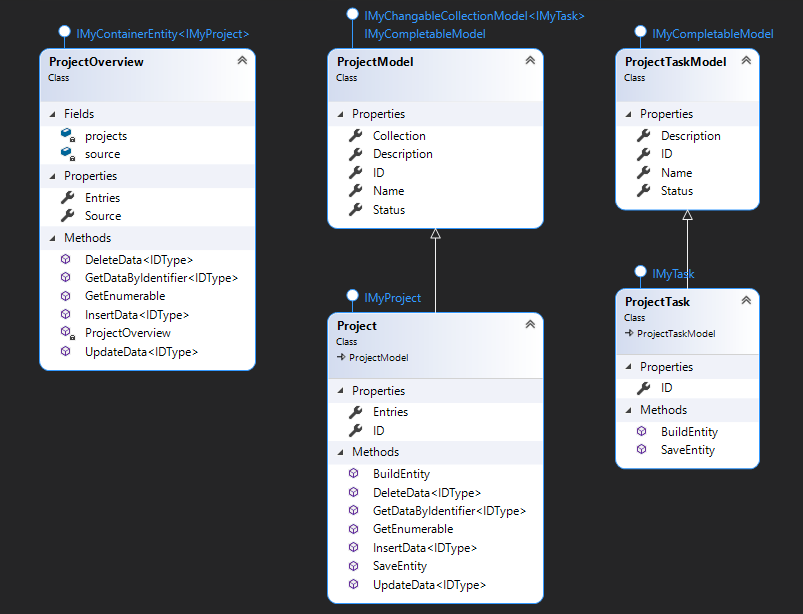
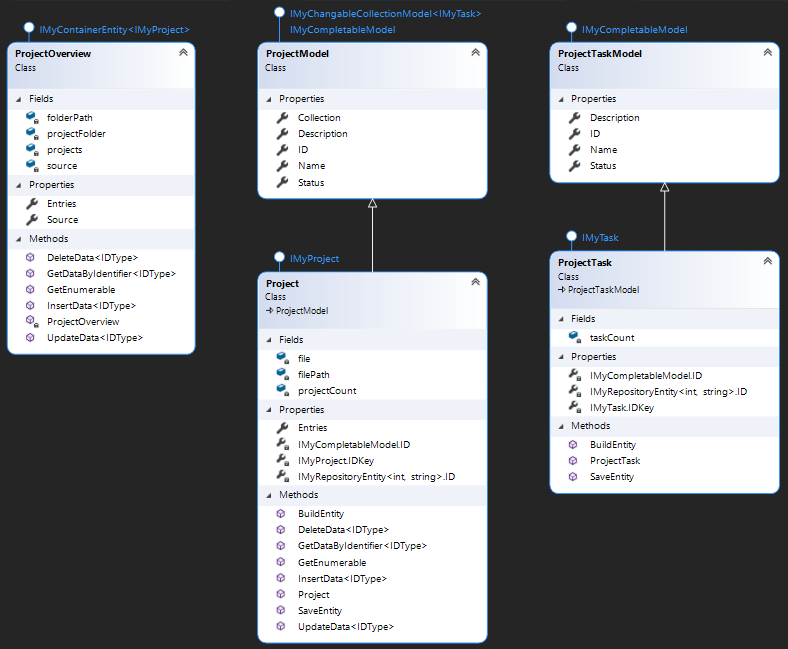
Implemented ProjctOverview + Ability to store and load projects
Changes to Projects
~ Fixed ambiguous call to ID property between IMyCompletableModel and IMyRepositoryEntity In IMyTask

diff --git a/Oiski.School.ToDo_H2_2021/ProjectOverview.cs b/Oiski.School.ToDo_H2_2021/ProjectOverview.cs
@@ -1,19 +1,51 @@
-using Oiski.Common.Repository;
+using Oiski.Common.Files;
+using Oiski.Common.Repository;
 using Oiski.School.ToDo_H2_2021.Entities;
 using System;
 using System.Collections.Generic;
+using System.IO;
+using System.Reflection;
 using System.Text;
+using System.Linq;
 
 namespace Oiski.School.ToDo_H2_2021
 {
+    /// <summary>
+    /// Represents a project manager that can maintain and minipulate <see cref="IMyProject"/> <see langword="objects"/>
+    /// </summary>
     public class ProjectOverview : IMyContainerEntity<IMyProject>
     {
+        /// <summary>
+        /// Initialize a new instance of type <see cref="ProjectOverview"/>
+        /// </summary>
         private ProjectOverview ()
         {
+            projects = new List<IMyProject> ();
+            if ( !Directory.Exists (folderPath) )
+            {
+                projectFolder = Directory.CreateDirectory (folderPath);
+            }
+            else
+            {
+                projectFolder = new DirectoryInfo (folderPath);
+            }
 
+            projects = GetEnumerable ().ToList ();
         }
 
+        /// <summary>
+        /// The folder that contains the <see cref="IMyProject"/> storage files
+        /// </summary>
+        private readonly DirectoryInfo projectFolder;
+        /// <summary>
+        /// The full path to the <see cref="projectFolder"/>
+        /// </summary>
+        private readonly string folderPath = $"{Path.GetDirectoryName (Assembly.GetExecutingAssembly ().Location)}\\Projects";
+
         private static ProjectOverview source;
+        /// <summary>
+        /// The <see cref="ProjectOverview"/> source link
+        /// </summary>
         public static ProjectOverview Source
         {
             get
@@ -27,7 +59,13 @@ namespace Oiski.School.ToDo_H2_2021
             }
         }
 
-        private List<IMyProject> projects;
+        /// <summary>
+        /// The collection of <see cref="IMyProject"/> <see langword="objects"/>
+        /// </summary>
+        private readonly List<IMyProject> projects;
+        /// <summary>
+        /// A read only collection of <see cref="IMyProject"/> <see langword="objects"/>
+        /// </summary>
         public IReadOnlyList<IMyProject> Entries
         {
             get
@@ -38,27 +76,85 @@ namespace Oiski.School.ToDo_H2_2021
 
         public bool DeleteData<IDType> ( IMyRepositoryEntity<IDType, string> _entity )
         {
-            throw new NotImplementedException ();
+            IMyProject project = GetDataByIdentifier (_entity.ID);
+            if ( project != null )
+            {
+                FileInfo file = projectFolder.GetFiles ($"{project.ID}").FirstOrDefault ();
+
+                if ( file != null )
+                {
+                    projects.Remove (projects.Find (item => item.ID == project.ID));
+                    file.Delete ();
+                    return true;
+                }
+            }
+
+            return false;
         }
 
         public IMyProject GetDataByIdentifier<IDType> ( IDType _id )
         {
-            throw new NotImplementedException ();
+            IMyProject project = new Project (string.Empty);
+            FileInfo fileInfo = projectFolder.GetFiles (Common.Generics.Converter.CastGeneric<IDType, int> (_id).ToString ()).FirstOrDefault ();
+
+            if ( fileInfo != null )
+            {
+                FileHandler file = new FileHandler (fileInfo.FullName);
+
+                if ( !string.IsNullOrEmpty (file.ReadLines ()[ 0 ]) )
+                {
+                    project.BuildEntity (file.ReadAll ());
+                    return project;
+                }
+            }
+
+            return null;
         }
 
         public IEnumerable<IMyProject> GetEnumerable ()
         {
-            throw new NotImplementedException ();
+            List<IMyProject> projects = new List<IMyProject> ();
+
+            foreach ( FileInfo data in projectFolder.GetFiles () )
+            {
+                FileHandler file = new FileHandler (data.FullName);
+                if ( !string.IsNullOrEmpty (file.ReadLines ()[ 0 ]) )
+                {
+                    IMyProject project = new Project (string.Empty);
+                    project.BuildEntity (file.ReadAll ());
+                }
+            }
+
+            return projects;
         }
 
         public bool InsertData<IDType> ( IMyRepositoryEntity<IDType, string> _data )
         {
-            throw new NotImplementedException ();
+            if ( GetDataByIdentifier (_data.ID) == null )
+            {
+                FileHandler file = new FileHandler ($"{folderPath}\\{_data.ID}.csv");
+                file.Write (_data.SaveEntity ());
+
+                projects.Add (GetDataByIdentifier (_data.ID));
+
+                return true;
+            }
+
+            return false;
         }
 
         public bool UpdateData<IDType> ( IMyRepositoryEntity<IDType, string> _data )
         {
-            throw new NotImplementedException ();
+            IMyProject project = GetDataByIdentifier (_data.ID);
+            if ( project != null )
+            {
+                FileHandler file = new FileHandler ($"{folderPath}\\{project.ID}.csv");
+                file.Write (_data.SaveEntity ());
+
+                return true;
+            }
+
+            return false;
         }
     }
 }

diff --git a/Oiski.School.ToDo_H2_2021/Entities/Project.cs b/Oiski.School.ToDo_H2_2021/Entities/Project.cs
@@ -25,7 +25,7 @@ namespace Oiski.School.ToDo_H2_2021.Entities
             Description = string.Empty;
             Status = EntryStatus.Open;
             Collection = new List<IMyTask> ();
-            filePath = $"{Path.GetDirectoryName (Assembly.GetExecutingAssembly ().Location)}\\Projects\\{Name}_{ID}.csv";
+            filePath = $"{Path.GetDirectoryName (Assembly.GetExecutingAssembly ().Location)}\\Projects\\{ID}.csv";
             file = new FileHandler (filePath);
         }
 
@@ -47,6 +47,22 @@ namespace Oiski.School.ToDo_H2_2021.Entities
             get
             {
                 return Collection;
+            }
+        }
+
+        int IMyCompletableModel.ID
+        {
+            get
+            {
+                return ID;
+            }
+        }
+
+        int IMyRepositoryEntity<int, string>.ID
+        {
+            get
+            {
+                return ID;
             }
         }
 

diff --git a/Oiski.School.ToDo_H2_2021.UI/Startup.cs b/Oiski.School.ToDo_H2_2021.UI/Startup.cs
@@ -8,6 +8,8 @@ using Microsoft.AspNetCore.HttpsPolicy;
 using Microsoft.Extensions.Configuration;
 using Microsoft.Extensions.DependencyInjection;
 using Microsoft.Extensions.Hosting;
+using Oiski.Common.Repository;
+using Oiski.School.ToDo_H2_2021.Entities;
 
 namespace Oiski.School.ToDo_H2_2021.UI
 {
@@ -24,6 +26,7 @@ namespace Oiski.School.ToDo_H2_2021.UI
         public void ConfigureServices ( IServiceCollection services )
         {
             services.AddRazorPages ();
+            services.AddSingleton<IMyRepository<IMyProject, string>, ProjectOverview> ();
         }
 
         // This method gets called by the runtime. Use this method to configure the HTTP request pipeline.

diff --git a/Oiski.School.ToDo_H2_2021/Entities/IMyProject.cs b/Oiski.School.ToDo_H2_2021/Entities/IMyProject.cs
@@ -11,6 +11,8 @@ namespace Oiski.School.ToDo_H2_2021.Entities
     /// </summary>
     public interface IMyProject : IMyCompletableModel, IMyContainerEntity<IMyTask>, IMyRepositoryEntity<int, string>
     {
+        new int ID { get; }
+
         /// <summary>
         /// The <i>key</i> that identifies the <see cref="ID"/> when calling <see cref="IMyRepositoryEntity{IDType, SaveType}.SaveEntity"/> and/or <see cref="IMyRepositoryEntity{IDType, SaveType}.BuildEntity(SaveType)"/>
         /// </summary>
